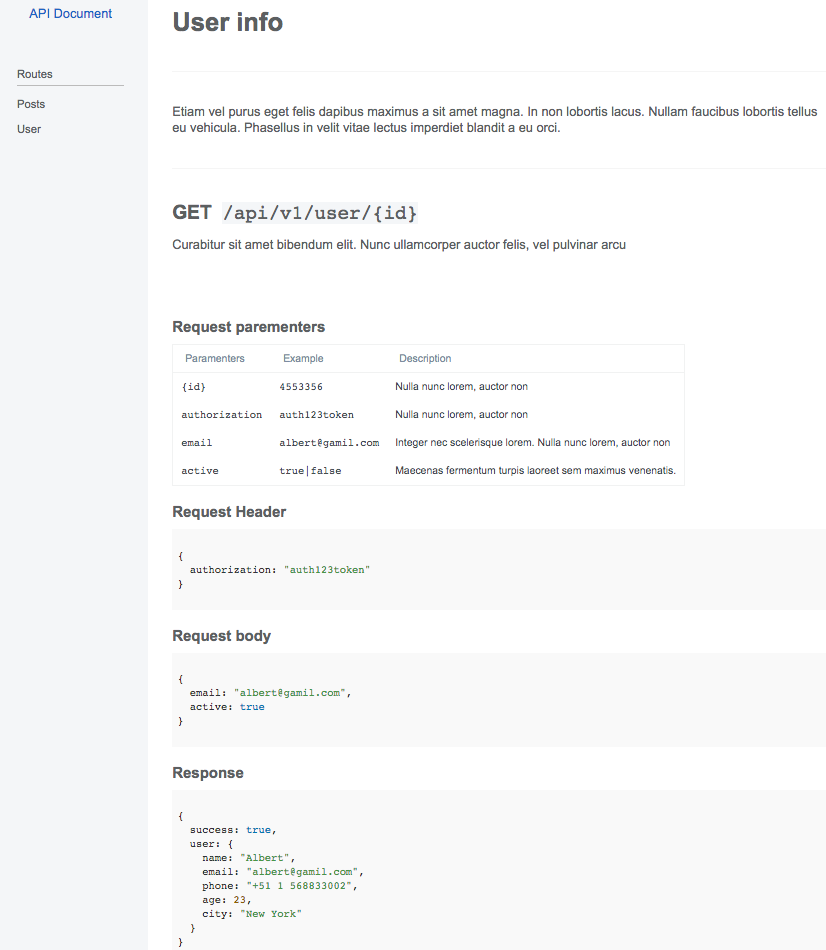
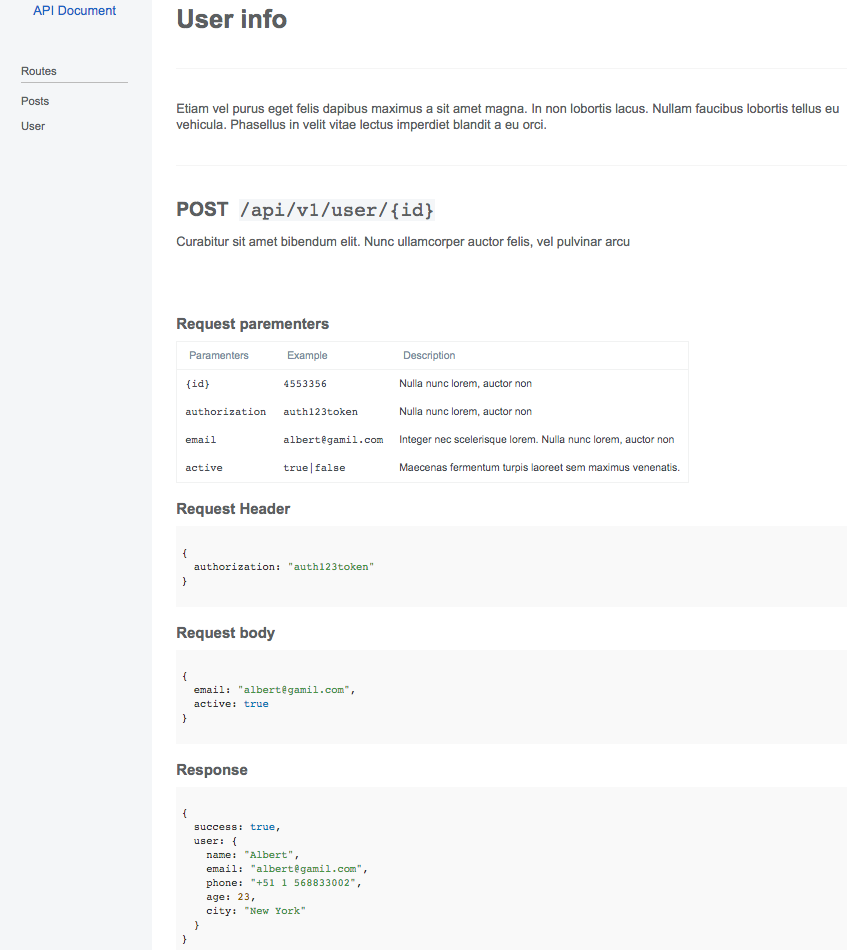
doc updated

diff --git a/public/user.html b/public/user.html
@@ -23,7 +23,7 @@
                     <hr class="fy-hr">
                     <div id="epdesc"><p>Etiam vel purus eget felis dapibus maximus a sit amet magna. In non lobortis lacus. Nullam faucibus lobortis tellus eu vehicula. Phasellus in velit vitae lectus imperdiet blandit a eu orci. </p></div>
                     <hr class="fy-hr">
-                    <h2 id="eppath"><span class="epm">get</span>&#xA0;&#xA0;<span class="ep">/api/v1/user/{id}</span></h2>
+                    <h2 id="eppath"><span class="epm">post</span>&#xA0;&#xA0;<span class="ep">/api/v1/user/{id}</span></h2>
                     <p id="eppathinfo">Curabitur sit amet bibendum elit. Nunc ullamcorper auctor felis, vel pulvinar arcu</p>
                     <hr class="fy-hr">
                     <div id="epparams_" class="fy-mb2">

diff --git a/README.md b/README.md
@@ -6,9 +6,9 @@ Document your API in a simple way.
 Create a `user.json` file in the folder `/api/` with the following structure
 ```json
 {
-    "title":"Get User",
+    "title":"User info",
     "description":"Etiam vel...",
-    "method":"get",
+    "method":"post",
     "path":"/api/v1/user/{id}",
     "path_info":"Curabitur...",
     "parameters":[
